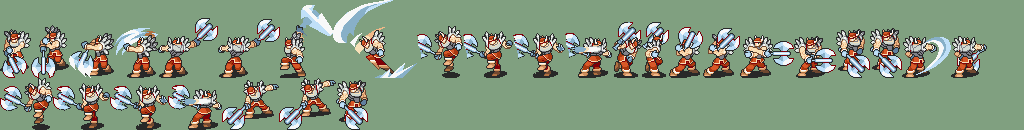
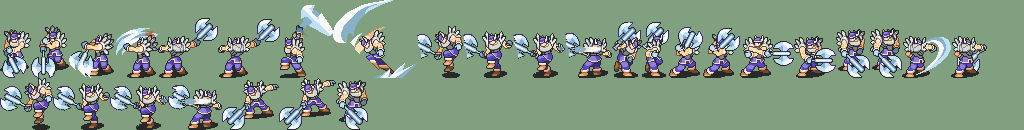
Joel has new palette. Fixing bugs

diff --git a/Utilities/Animations/palette_index.py b/Utilities/Animations/palette_index.py
@@ -1424,7 +1424,7 @@ sidney = [(128, 160, 128), # Background
                 (104, 56, 64), # Dark Clothes
                 (40, 40, 40)] # Outline
 
-fighter_joel = [(128, 160, 128), # Background
+fighter_joel_old = [(128, 160, 128), # Background
                 (248, 248, 248), # White
                 (248, 224, 184), # Light skin
                 (240, 184, 136), # LM skin
@@ -1439,6 +1439,23 @@ fighter_joel = [(128, 160, 128), # Background
                 (216, 88, 40), # Light Clothes
                 (168, 56, 16), # Med Clothes
                 (128, 0, 8), # Dark Clothes
+                (40, 40, 40)] # Outline
+
+fighter_joel = [(128, 160, 128), # Background
+                (248, 248, 248), # White
+                (248, 224, 184), # Light skin
+                (240, 184, 136), # LM skin
+                (208, 144, 96), # M skin
+                (176, 112, 64), # DM skin
+                (128, 88, 56), # Dark skin
+                (232, 168, 32), # Light Hair
+                (152, 112, 64), # Dark Hair
+                (200, 232, 240), # Light Weapon
+                (160, 192, 224), # Dark Weapon
+                (120, 152, 184), # Weapon Highlight
+                (144, 128, 216), # Light Clothes
+                (88, 72, 200), # Med Clothes
+                (56, 48, 120), # Dark Clothes
                 (40, 40, 40)] # Outline
 
 generic_fighter = [(255, 255, 255),
@@ -1510,7 +1527,7 @@ warrior_red = [(128, 160, 128), # Background
                 (128, 128, 136), # Dark Armor
                 (40, 40, 40)] # Outline
 
-warrior_joel = [(128, 160, 128), # Background
+warrior_joel_old = [(128, 160, 128), # Background
                 (248, 248, 248), # White
                 (248, 224, 184), # Light skin
                 (240, 184, 136), # LM skin
@@ -1523,6 +1540,23 @@ warrior_joel = [(128, 160, 128), # Background
                 (216, 88, 40), # Light Clothes
                 (168, 56, 16), # Med Clothes
                 (128, 0, 8), # Dark Clothes
+                (208, 216, 208), # Light Armor
+                (128, 128, 136), # Dark Armor
+                (40, 40, 40)] # Outline
+
+warrior_joel = [(128, 160, 128), # Background
+                (248, 248, 248), # White
+                (248, 224, 184), # Light skin
+                (240, 184, 136), # LM skin
+                (208, 144, 96), # M skin
+                (176, 112, 64), # DM skin
+                (112, 72, 48), # Dark skin
+                (192, 224, 248), # Light Weapon
+                (136, 176, 200), # Medium Weapon
+                (96, 128, 160), # Dark Weapon
+                (144, 128, 216), # Light Clothes
+                (88, 72, 200), # Med Clothes
+                (56, 48, 120), # Dark Clothes
                 (208, 216, 208), # Light Armor
                 (128, 128, 136), # Dark Armor
                 (40, 40, 40)] # Outline

diff --git a/Code/StateMachine.py b/Code/StateMachine.py
@@ -2035,6 +2035,8 @@ class CombatState(State):
         unit_surf = self.unit_surf.copy()
         # Draw the tile sprites onto this surface
         gameStateObj.map.draw(mapSurf, gameStateObj)
+        # Draw the boundary manager so it doesn't flicker on and off during animation
+        gameStateObj.boundary_manager.draw(mapSurf, (mapSurf.get_width(), mapSurf.get_height()))
 
         # Reorder units so they are drawn in correct order, from top to bottom, so that units on bottom are blit over top
         # Only draw units that will be in the camera's field of view
@@ -2554,7 +2556,8 @@ class ItemGainState(State):
         mapSurf = State.draw(self, gameStateObj, metaDataObj)
         # To handle promotion
         under_state = gameStateObj.stateMachine.get_under_state(self)
-        if under_state and isinstance(under_state, ExpGainState) or isinstance(under_state, ItemGainState):
+        if under_state and isinstance(under_state, ExpGainState) or isinstance(under_state, ItemGainState) \
+           or isinstance(under_state, CombatState) or isinstance(under_state, PromotionState):
             mapSurf = under_state.draw(gameStateObj, metaDataObj)
         # For Dialogue
         elif gameStateObj.message:
@@ -2571,7 +2574,7 @@ class ItemDiscardState(State):
         if 'Convoy' in gameStateObj.game_constants:
             self.pennant = Banner.Pennant(cf.WORDS['Storage_info'])
         else:
-            self.pennent = Banner.Pennant(cf.WORDS['Discard'])
+            self.pennant = Banner.Pennant(cf.WORDS['Discard'])
         options = gameStateObj.cursor.currentSelectedUnit.items
         if not gameStateObj.activeMenu:
             gameStateObj.activeMenu = MenuFunctions.ChoiceMenu(gameStateObj.cursor.currentSelectedUnit, options, 'auto', gameStateObj=gameStateObj)

diff --git a/Code/CustomObjects.py b/Code/CustomObjects.py
@@ -532,7 +532,7 @@ class BoundaryManager(object):
         self._set(ValidAttacks, 'attack', unit.id)
         self._set(ValidSpells, 'spell', unit.id)
         # self._set(ValidMoves, 'movement', unit.id)
-        area_of_influence = Utility.find_manhattan_spheres(range(1, unit.stats['MOV']), unit.position)
+        area_of_influence = Utility.find_manhattan_spheres(range(1, unit.stats['MOV'] + 1), unit.position)
         area_of_influence = {pos for pos in area_of_influence if gameStateObj.map.check_bounds(pos)}
         self._set(area_of_influence, 'movement', unit.id)
         # print(unit.name, unit.position, unit.klass, unit.event_id)

diff --git a/Code/Engine.py b/Code/Engine.py
@@ -389,6 +389,12 @@ class MusicThread(object):
                 # self.fade_out_update = current_time
                 self.state = 'fade_catch'
 
+        # If there's no music currently playing, make it so that music does play
+        if self.current and not pygame.mixer.music.get_busy():
+            logger.debug('Music: Music not playing!')
+            pygame.mixer.music.load(self.current.song)
+            pygame.mixer.music.play(0)
+
 if PYGAME_SDL2:
     music_thread = NoMusicThread()
 else:

diff --git a/Code/Interaction.py b/Code/Interaction.py
@@ -850,8 +850,8 @@ class AnimationCombat(Combat):
                 self.end_skip()
                 return True
 
-        self.left_hp_bar.update(skip)
-        self.right_hp_bar.update(skip)
+        self.left_hp_bar.update(skip or self.combat_state == 'Exp')
+        self.right_hp_bar.update(skip or self.combat_state == 'Exp')
         self.left.battle_anim.update()
         self.right.battle_anim.update()
 

diff --git a/Utilities/Animations/palette_converter.py b/Utilities/Animations/palette_converter.py
@@ -3,8 +3,8 @@ import glob
 from palette_index import *
 
 ### === INPUTS ===
-p1 = joshua_swordmaster
-p2 = swordmaster_ophie
+p1 = warrior_joel_old
+p2 = warrior_joel
 images_to_convert = '*.png'
 
 def palette_convert(p1, p2, image_to_convert):
